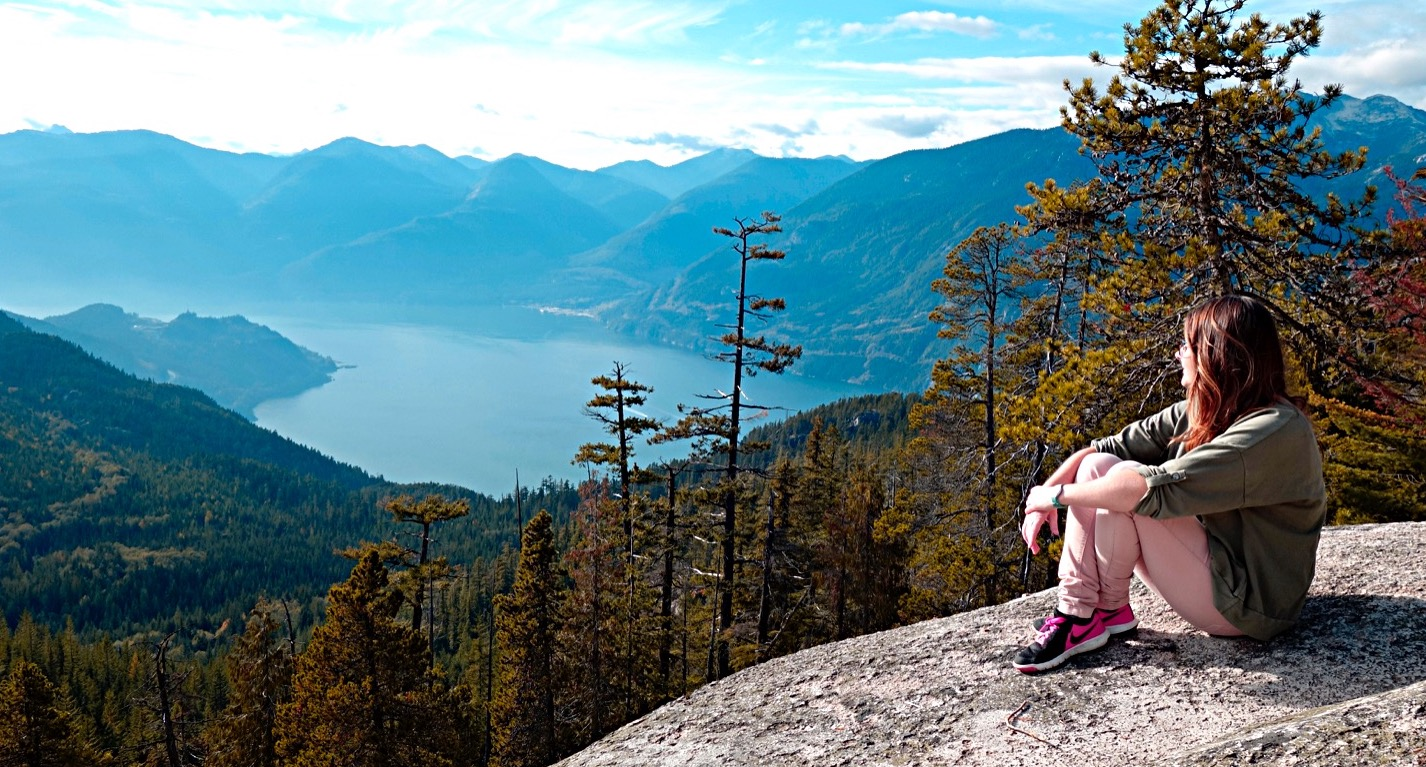
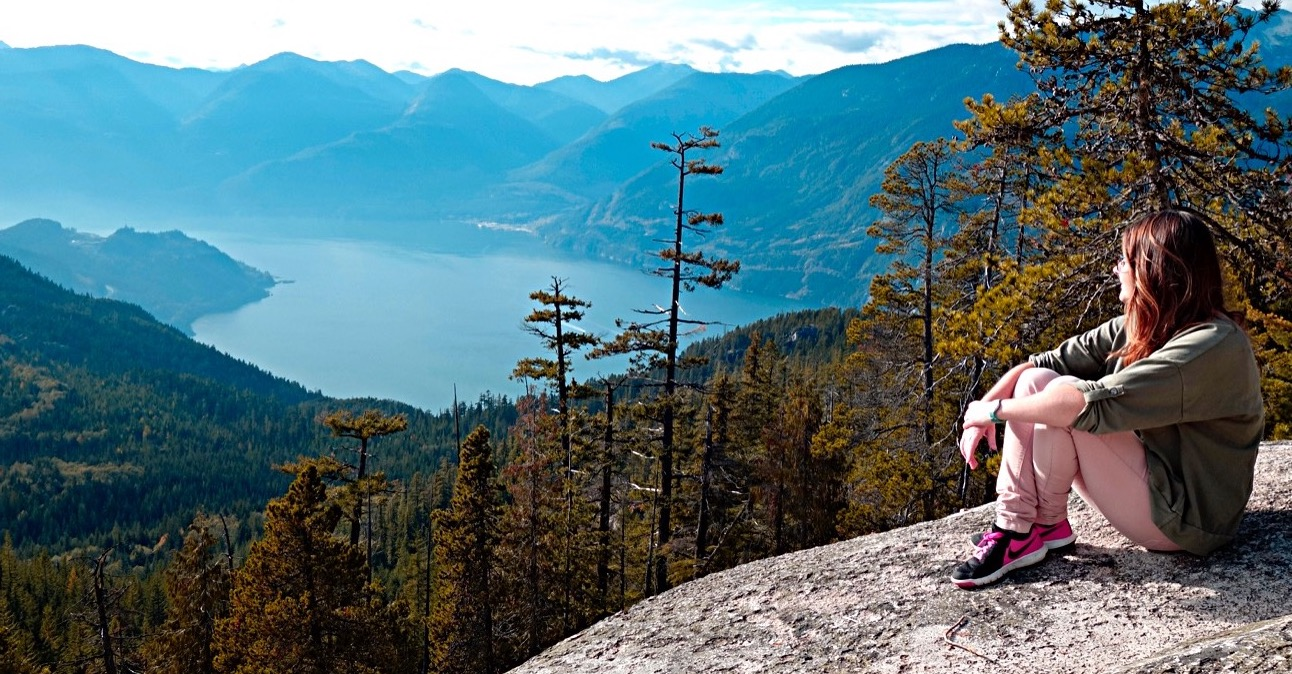
update: change size of background image

diff --git a/app/page.tsx b/app/page.tsx
@@ -25,7 +25,7 @@ export default async function Home() {
 
   return (
     <div className="flex flex-col">
-      <div className="bg-homePage flex h-[32rem] w-full items-center">
+      <div className="bg-homePage flex h-[40rem] w-full items-center">
         <div className="m-auto mb-0 flex h-auto w-full bg-secondaryBgTransparent font-chelsea">
           <div className="mx-auto my-2 flex w-[17rem] items-center">
             <h1 className="w-full text-left text-[3rem] font-semibold leading-[3rem] text-footerBg">
